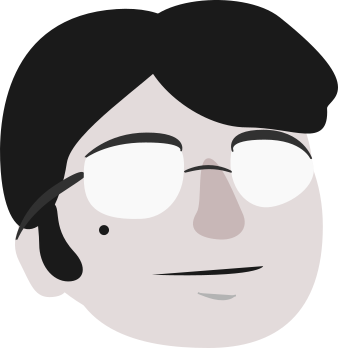
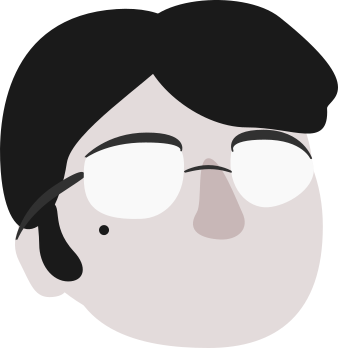
add speaking anim to PortraitAnimAtom

Changed region(s): [[0.4734, 0.7471, 0.7692, 0.8046], [0.5917, 0.8333, 0.7101, 0.8621]]

diff --git a/app/_components/atoms/PortraitAnimAtom.tsx b/app/_components/atoms/PortraitAnimAtom.tsx
@@ -3,9 +3,12 @@ import { K2D } from 'next/font/google'
 import Image from 'next/image'
 import React, { useState, useEffect } from 'react'
 
-type Props = {}
+type Props = {
+  speaking: boolean
+}
 
-export default function PortraitAnimAtom({ }: Props) {
+export default function PortraitAnimAtom({ speaking }: Props) {
+  const [isMouthOpen, setIsMouthOpen] = useState(false)
   function angle(cx: number, cy: number, ex: number, ey: number) {
     const dy = ey - cy
     const dx = ex - cx
@@ -26,7 +29,6 @@ export default function PortraitAnimAtom({ }: Props) {
         anchorX = rect?.left + rect?.width / 2
         anchorY = rect?.top + rect?.height / 2
         angleDeg = angle(mouseX, mouseY, anchorX, anchorY)
-        console.log(angleDeg)
         const eyes: NodeListOf<HTMLElement> = document.querySelectorAll(".eye")
         eyes.forEach((eye) => {
           eye.style.transform = `rotate(${90 + angleDeg}deg)`
@@ -34,18 +36,24 @@ export default function PortraitAnimAtom({ }: Props) {
 
       }
     }
-
-
     document.addEventListener("mousemove", rotatePupil)
 
     return () => {
       document.removeEventListener("mousemove", rotatePupil)
     }
-
-
-
   }, [])
 
+  useEffect(() => {
+    if (speaking) {
+      const speakInterval = setInterval(() => {
+        setIsMouthOpen((prev) => !prev)
+      }, 80);
+
+      return () => clearInterval(speakInterval)
+    } else {
+      setIsMouthOpen(false)
+    }
+  }, [speaking])
 
 
   //on mount create cursor listener
@@ -54,8 +62,10 @@ export default function PortraitAnimAtom({ }: Props) {
       <Image className='mx-auto' src={"/bg.png"} alt='bg' width={300} height={300} />
       <Image className='absolute top-[6%] left-[15%] z-20 anim-hover' src={"/head.png"} alt='bg' width={200} height={200} />
       <Image className='anim-breath absolute bottom-[10%] left-[32%] z-10' src={"/neck.png"} alt='bg' width={100} height={100} />
-      <Image className='eye absolute top-[38%] left-[40%] z-40' src={"/eye.png"} alt='bg' width={20} height={20} />
-      <Image className='eye absolute top-[37%] right-[30%] z-40' src={"/eye.png"} alt='bg' width={20} height={20} />
+      <Image className='eye absolute top-[37%] left-[40%] z-40' src={"/eye.png"} alt='bg' width={25} height={25} />
+      <Image className='eye absolute top-[36%] right-[28%] z-40' src={"/eye.png"} alt='bg' width={25} height={25} />
+      {!isMouthOpen && <Image className='absolute bottom-[30%] right-[32%] z-40' src={"/mouth-closed.png"} alt='bg' width={75} height={75} />}
+      {isMouthOpen && <Image className='absolute bottom-[30%] right-[32%] z-40' src={"/mouth-open.png"} alt='bg' width={75} height={75} />}
       <Image className='anim-breath absolute bottom-[-1%] left-[16%]' src={"/body.png"} alt='bg' width={200} height={200} />
     </div >
   )

diff --git a/app/_components/atoms/TypewriterAtom.tsx b/app/_components/atoms/TypewriterAtom.tsx
@@ -3,9 +3,10 @@ import React, { useEffect, useState } from 'react'
 
 type Props = {
   text: string
+  speakingHandler: Function
 }
 
-export default function TypewriterAtom({ text }: Props) {
+export default function TypewriterAtom({ text, speakingHandler }: Props) {
   const [typewriter, setTypewriter] = useState("")
   const [typeFinished, setTypeFinished] = useState(false)
 
@@ -26,6 +27,12 @@ export default function TypewriterAtom({ text }: Props) {
     //clear interval when unmounted
     return () => clearInterval(typeInterval)
   }, [text])
+
+  useEffect(() => {
+    console.log("Speaking!!!")
+    if (typeFinished) speakingHandler(false)
+    else speakingHandler(true)
+  }, [typeFinished])
 
 
   return (
